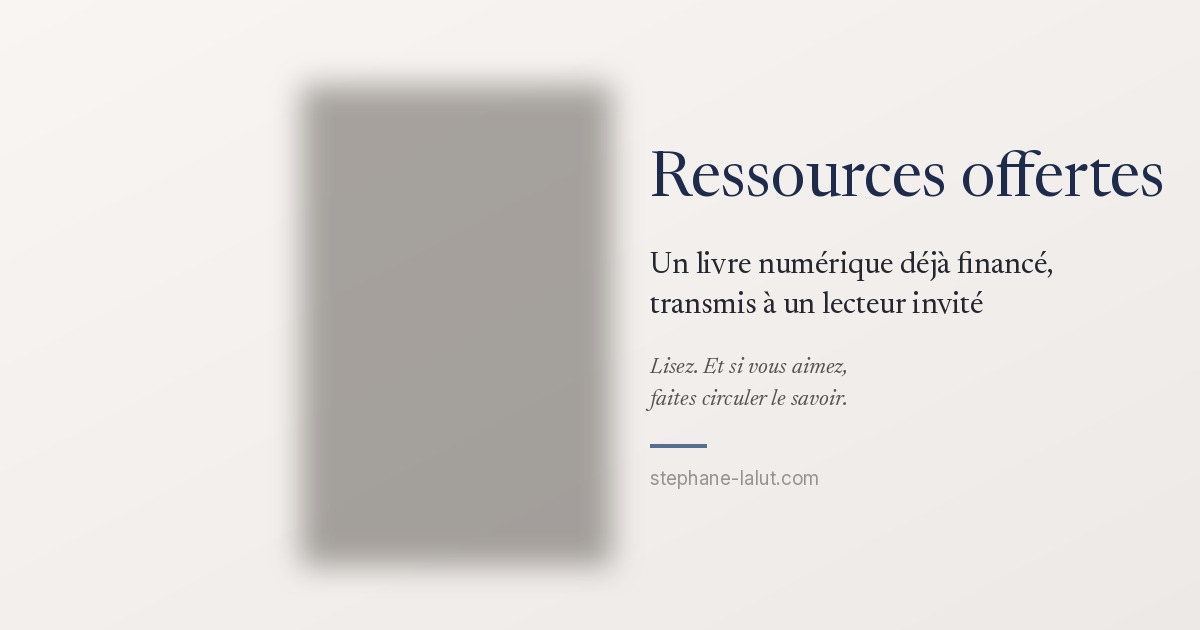
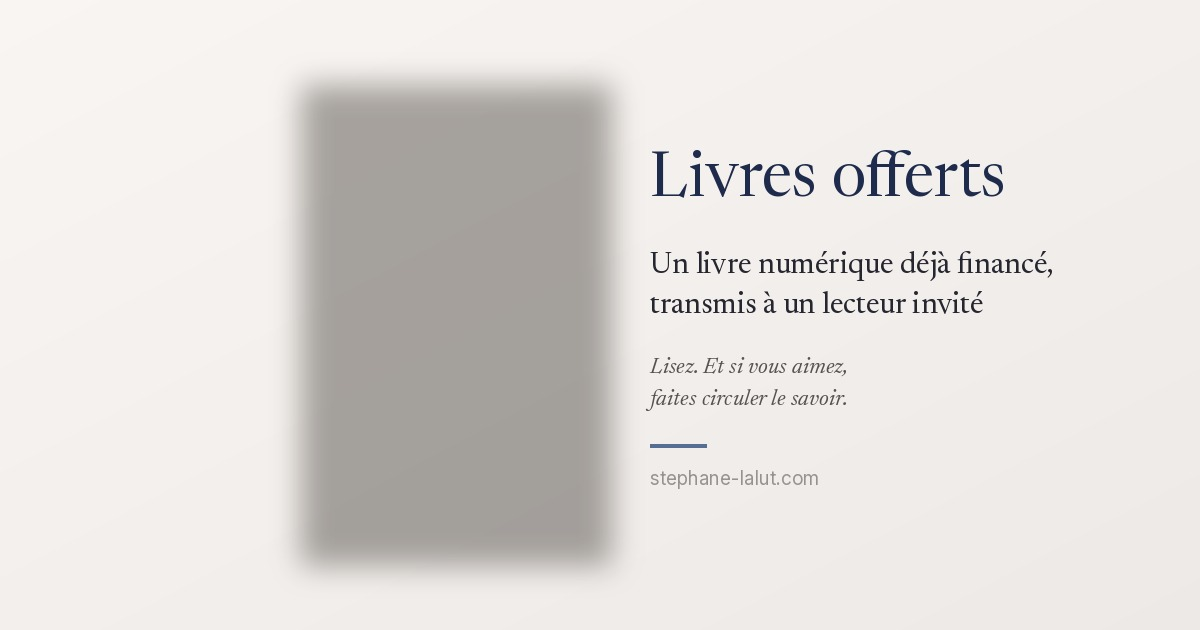
refactor(site): « Livres offerts » et « Presse » libèrent le nom « Ressources »
Le guichet sur invitation devient « Livres offerts — accès sur invitation » (titre,
titres de partage, surtitres, textes alternatifs, page transparence) ; les deux images
de partage sont régénérées par og_ressources_livre_base.py. « Ressources presse »
devient « Presse ». Aucune adresse ne change : /ressources-offertes/ et /presse/ restent,
tout comme l'ancre #ressources-offertes.

Arbitrage PRO-20260921-105434 du 28/09/2026, décision d'auteur du même jour.

Changed region(s): [[0.555, 0.2413, 0.9867, 0.3317]]

diff --git a/layouts/ressources-offertes/list.html b/layouts/ressources-offertes/list.html
@@ -28,7 +28,7 @@ Aucune contrepartie n'est demandée.` $url -}}
 
   {{/* ── 1. Principe ── */}}
   <header class="page-header">
-    <p class="ressources-eyebrow">Ressources offertes</p>
+    <p class="ressources-eyebrow">Livres offerts — accès sur invitation</p>
     <h1 class="page-header__title">Des livres déjà financés, transmis aux lecteurs invités</h1>
     <p class="ressources-tagline">Recevez un livre Kindle sans paiement, sans abonnement, sans contrepartie. Seul un compte Amazon.fr est nécessaire.</p>
   </header>

diff --git a/layouts/ressources-offertes/single.html b/layouts/ressources-offertes/single.html
@@ -27,7 +27,7 @@ Un compte Amazon.fr est nécessaire. Les liens sont individuels, à usage unique
 <article class="home-section ressources ressources--single">
 
   <header class="page-header">
-    <p class="ressources-eyebrow">Ressources offertes — un exemplaire pour vous</p>
+    <p class="ressources-eyebrow">Livres offerts — un exemplaire pour vous</p>
     <h1 class="page-header__title">{{ $book.Title }}</h1>
     {{ with $book.Params.subtitle }}<p class="ressources-tagline">{{ partial "fr-typo.html" . }}</p>{{ end }}
   </header>

diff --git a/scripts/og_ressources_livre_base.py b/scripts/og_ressources_livre_base.py
@@ -82,7 +82,7 @@ def background() -> Image.Image:
 def text_block(im: Image.Image, x: int, sub: tuple[str, str], ital: tuple[str, str]) -> None:
     d = ImageDraw.Draw(im)
     y = 150
-    d.text((x, y), "Ressources offertes", font=font("newsreader", 62), fill=NAVY)
+    d.text((x, y), "Livres offerts", font=font("newsreader", 62), fill=NAVY)
     y += 100
     f_sub = font("newsreader", 30)
     for line in sub:

diff --git a/content/ressources-offertes/_index.md b/content/ressources-offertes/_index.md
@@ -1,17 +1,17 @@
 ---
-title: "Ressources offertes — des livres déjà financés"
+title: "Livres offerts — accès sur invitation"
 description: "Recevez un livre sans paiement. Des ouvrages transmis sur invitation pour faire circuler le savoir."
 # Page sur INVITATION : volontairement non indexée et hors sitemap.
 # L'URL circule par les invitations (e-mail, partage), jamais par les moteurs.
 # Doctrine du dispositif : aucun lien Amazon prépayé n'apparaît jamais sur le site.
 noindex: true
 # Aperçu de partage (WhatsApp/messageries) — court et lisible en vignette.
-og_title: "Ressources offertes — des livres déjà financés"
+og_title: "Livres offerts — accès sur invitation"
 og_description: "Recevez un livre sans paiement. Des ouvrages transmis sur invitation pour faire circuler le savoir."
-twitter_title: "Ressources offertes — des livres déjà financés"
+twitter_title: "Livres offerts — accès sur invitation"
 twitter_description: "Recevez un livre sans paiement. Une chaîne de transmission du savoir."
 og_image: "images/og-ressources-offertes.jpg"
-og_image_alt: "Ressources offertes — des livres numériques déjà financés, transmis aux lecteurs invités. L'Odyssée des idées, Anthropie, La Dette publique, Livresque des mots, La Société du premier coup et Un président peut-il tenir ses promesses ?"
+og_image_alt: "Livres offerts — des livres numériques déjà financés, transmis aux lecteurs invités. L'Odyssée des idées, Anthropie, La Dette publique, Livresque des mots, La Société du premier coup et Un président peut-il tenir ses promesses ?"
 _build:
   list: never        # exclue du sitemap et des listes internes
   render: always     # l'URL reste servie pour qui possède le lien

diff --git a/content/transparence-contacts/_index.md b/content/transparence-contacts/_index.md
@@ -1,6 +1,6 @@
 ---
 title: "Transparence et données personnelles"
-description: "Comment vos données sont traitées lors d'une prise de contact professionnelle ou d'une demande sur la page Ressources offertes, comment exercer vos droits ou vous opposer à un nouveau contact."
+description: "Comment vos données sont traitées lors d'une prise de contact professionnelle ou d'une demande sur la page Livres offerts, comment exercer vos droits ou vous opposer à un nouveau contact."
 draft: false
 ---
 
@@ -74,9 +74,9 @@ Vous pouvez exercer vos droits en répondant au message reçu ou par la
 [page Contact](/contact/). Vous pouvez également adresser une réclamation à la
 [CNIL](https://www.cnil.fr).
 
-## Dispositif «&nbsp;Ressources offertes&nbsp;» {#ressources-offertes}
+## Dispositif «&nbsp;Livres offerts&nbsp;» {#ressources-offertes}
 
-Lorsque vous demandez un exemplaire offert sur la page Ressources offertes, un
+Lorsque vous demandez un exemplaire offert sur la page Livres offerts, un
 identifiant aléatoire est enregistré dans votre navigateur (jusqu'à la suppression des
 données du site) afin d'éviter l'attribution de plusieurs exemplaires. Lorsqu'un
 exemplaire est attribué, cet identifiant et le livre choisi sont conservés sur notre

diff --git a/content/ressources-offertes/un-president-peut-il-tenir-ses-promesses.md b/content/ressources-offertes/un-president-peut-il-tenir-ses-promesses.md
@@ -10,7 +10,7 @@ draft: false
 noindex: true
 og_title: "Un président peut-il tenir ses promesses ? — un exemplaire vous est offert"
 og_description: "Un exemplaire Kindle prépayé, déjà financé, transmis sans paiement ni contrepartie."
-og_image_alt: "Ressources offertes — un exemplaire d'Un président peut-il tenir ses promesses ? transmis à un lecteur invité."
+og_image_alt: "Livres offerts — un exemplaire d'Un président peut-il tenir ses promesses ? transmis à un lecteur invité."
 _build:
   list: never        # exclue du sitemap et des listes internes
   render: always     # l'URL reste servie pour qui possède le lien

diff --git a/content/ressources-offertes/anthropie-ordre-ici-dette-ailleurs.md b/content/ressources-offertes/anthropie-ordre-ici-dette-ailleurs.md
@@ -6,7 +6,7 @@ livre: "anthropie-ordre-ici-dette-ailleurs"
 noindex: true
 og_title: "ANTHROPIE — un exemplaire vous est offert"
 og_description: "Un exemplaire Kindle prépayé, déjà financé, transmis sans paiement ni contrepartie."
-og_image_alt: "Ressources offertes — un exemplaire d'ANTHROPIE transmis à un lecteur invité."
+og_image_alt: "Livres offerts — un exemplaire d'ANTHROPIE transmis à un lecteur invité."
 _build:
   list: never        # exclue du sitemap et des listes internes
   render: always     # l'URL reste servie pour qui possède le lien

diff --git a/content/ressources-offertes/la-societe-du-premier-coup.md b/content/ressources-offertes/la-societe-du-premier-coup.md
@@ -5,7 +5,7 @@ livre: "la-societe-du-premier-coup"
 noindex: true
 og_title: "La Société du premier coup — un exemplaire vous est offert"
 og_description: "Un exemplaire Kindle prépayé, déjà financé, transmis sans paiement ni contrepartie."
-og_image_alt: "Ressources offertes — un exemplaire de La Société du premier coup transmis à un lecteur invité."
+og_image_alt: "Livres offerts — un exemplaire de La Société du premier coup transmis à un lecteur invité."
 _build:
   list: never
   render: always

diff --git a/content/ressources-offertes/dette-publique-qui-paie-vraiment.md b/content/ressources-offertes/dette-publique-qui-paie-vraiment.md
@@ -5,7 +5,7 @@ livre: "dette-publique-qui-paie-vraiment"
 noindex: true
 og_title: "Dette publique : qui paie vraiment ? — un exemplaire vous est offert"
 og_description: "Un exemplaire Kindle prépayé, déjà financé, transmis sans paiement ni contrepartie."
-og_image_alt: "Ressources offertes — un exemplaire de Dette publique transmis à un lecteur invité."
+og_image_alt: "Livres offerts — un exemplaire de Dette publique transmis à un lecteur invité."
 _build:
   list: never
   render: always

diff --git a/content/ressources-offertes/lodyssee-des-idees.md b/content/ressources-offertes/lodyssee-des-idees.md
@@ -5,7 +5,7 @@ livre: "lodyssee-des-idees"
 noindex: true
 og_title: "L'Odyssée des idées — un exemplaire vous est offert"
 og_description: "Un exemplaire Kindle prépayé, déjà financé, transmis sans paiement ni contrepartie."
-og_image_alt: "Ressources offertes — un exemplaire de L'Odyssée des idées transmis à un lecteur invité."
+og_image_alt: "Livres offerts — un exemplaire de L'Odyssée des idées transmis à un lecteur invité."
 _build:
   list: never
   render: always

diff --git a/content/ressources-offertes/livresque-des-mots.md b/content/ressources-offertes/livresque-des-mots.md
@@ -5,7 +5,7 @@ livre: "livresque-des-mots"
 noindex: true
 og_title: "Livresque des mots — un exemplaire vous est offert"
 og_description: "Un exemplaire Kindle prépayé, déjà financé, transmis sans paiement ni contrepartie."
-og_image_alt: "Ressources offertes — un exemplaire de Livresque des mots transmis à un lecteur invité."
+og_image_alt: "Livres offerts — un exemplaire de Livresque des mots transmis à un lecteur invité."
 _build:
   list: never
   render: always

diff --git a/content/presse/_index.md b/content/presse/_index.md
@@ -1,5 +1,5 @@
 ---
-title: "Ressources presse"
+title: "Presse"
 description: "Documents et ressources à destination de la presse."
 # Page volontairement non indexée tant que le kit presse est vide : on ne veut
 # pas exposer une page maigre aux moteurs classiques ni aux moteurs IA.
